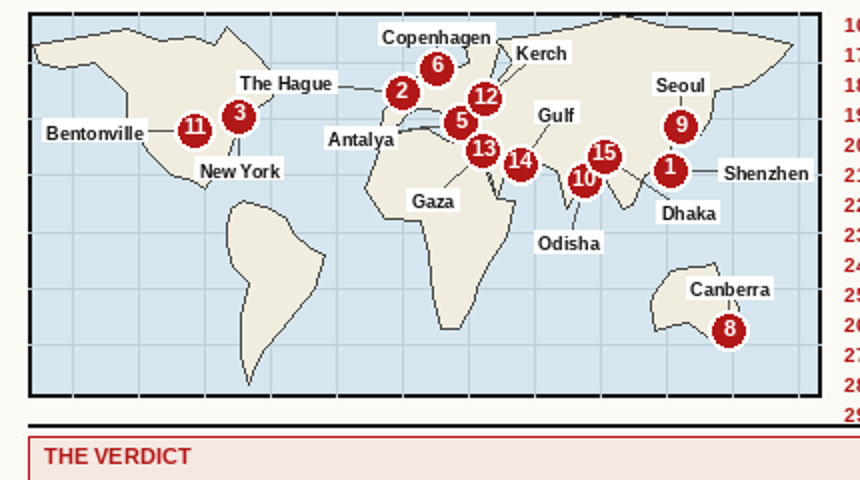
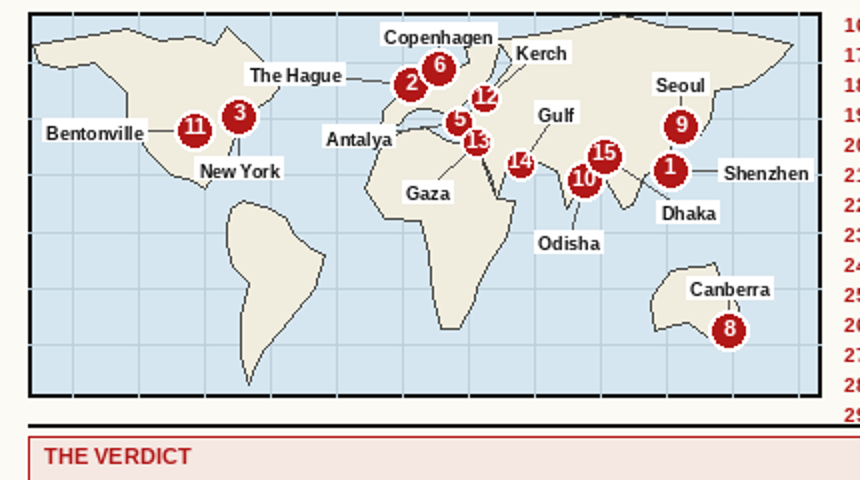
Fix map pins 2/13 per Hermes blind review: The Hague + Gaza onto true locations

Changed region(s): [[0.2721, 0.0625, 0.6349, 0.4688]]

diff --git a/build_image.py b/build_image.py
@@ -128,11 +128,14 @@ def draw_map(draw, x0, y0, w, h, pins):
     for name, pts in CONTINENTS.items():
         poly = [project(lo, la, x0, y0, w, h) for lo, la in pts]
         draw.polygon(poly, fill=(240, 236, 222), outline=(70, 70, 66))
-    # pins: (lon, lat, story no., label, label_dx, label_dy)
+    # pins: (lon, lat, story no., label, label_dx, label_dy[, radius])
     # label_dx/dy = offset in px from pin centre to label-box centre.
-    # Pin sites are nudged a few degrees off their true location so every
-    # pair of pin centres is >=16px apart; labels sit clear of pins and
-    # each other, joined to their pin by a thin leader line.
+    # Pin sites are nudged a few degrees off their true location so pin
+    # centres stay apart; labels sit clear of pins and each other,
+    # joined to their pin by a thin leader line. The East-Mediterranean
+    # cluster (5 Antalya, 12 Kerch, 13 Gaza, 14 Gulf) is too tight for
+    # r=10 at true locations, so those four pins use r=8; the smallest
+    # centre gap anywhere is 14.1px (pins 5/13), all other pairs >=16px.
     fnum = F(SANS_B, 11)
     flab = F(SANS_B, 9)
     for pin in pins:
@@ -140,7 +143,7 @@ def draw_map(draw, x0, y0, w, h, pins):
         dx = pin[4] if len(pin) > 4 else 0
         dy = pin[5] if len(pin) > 5 else 22
         px, py = project(lon, lat, x0, y0, w, h)
-        r = 10
+        r = pin[6] if len(pin) > 6 else 10
         if label:
             lw = draw.textlength(label, font=flab)
             cx = px + dx
@@ -437,20 +440,22 @@ def build():
     # 3 New York, 5 Antalya, 6 Copenhagen, 8 Canberra, 9 Seoul,
     # 10 Odisha, 11 Bentonville, 12 Kerch, 13 Gaza, 14 Gulf, 15 Dhaka.
     # 4 is fictional (Los Santos) and 7 shares New York with pin 3, so
-    # neither gets its own pin. Sites are nudged a few degrees so every
-    # pair of pin centres is >=16px apart (min is 17.0px, pins 5/12).
+    # neither gets its own pin. Pins 2 (The Hague) and 13 (Gaza) sit on
+    # their true locations; pin 6 (Copenhagen) is nudged 1 deg east so
+    # pins 2/6 stay 16.3px apart, pin 5 (Antalya) 1 deg west / 0.5 deg
+    # north so pins 5/13 stay 14.1px apart (r=8 cluster, see draw_map).
     pins = [(122, 22, 1, "Shenzhen", 48, 0),
-            (0, 49, 2, "The Hague", -58, -6),
+            (4.3, 52.1, 2, "The Hague", -58, -6),
             (-74, 41, 3, "New York", 0, 26),
-            (27, 38.5, 5, "Antalya", -50, 7),
-            (16, 58, 6, "Copenhagen", 0, -17),
+            (26, 39, 5, "Antalya", -50, 7, 8),
+            (17, 58, 6, "Copenhagen", 0, -17),
             (149, -35, 8, "Canberra", 0, -22),
             (127, 37, 9, "Seoul", 0, -22),
             (83, 18, 10, "Odisha", -8, 30),
             (-94, 36, 11, "Bentonville", -50, 0),
-            (38, 47, 12, "Kerch", 28, -24),
-            (37, 28.5, 13, "Gaza", -25, 24),
-            (54, 24, 14, "Gulf", 18, -26),
+            (38, 47, 12, "Kerch", 28, -24, 8),
+            (34.5, 31.5, 13, "Gaza", -25, 24, 8),
+            (54, 24, 14, "Gulf", 18, -26, 8),
             (92, 27, 15, "Dhaka", 42, 28)]
     draw_map(d, map_x, map_y + 18, map_w, map_h - 18, pins)
 
